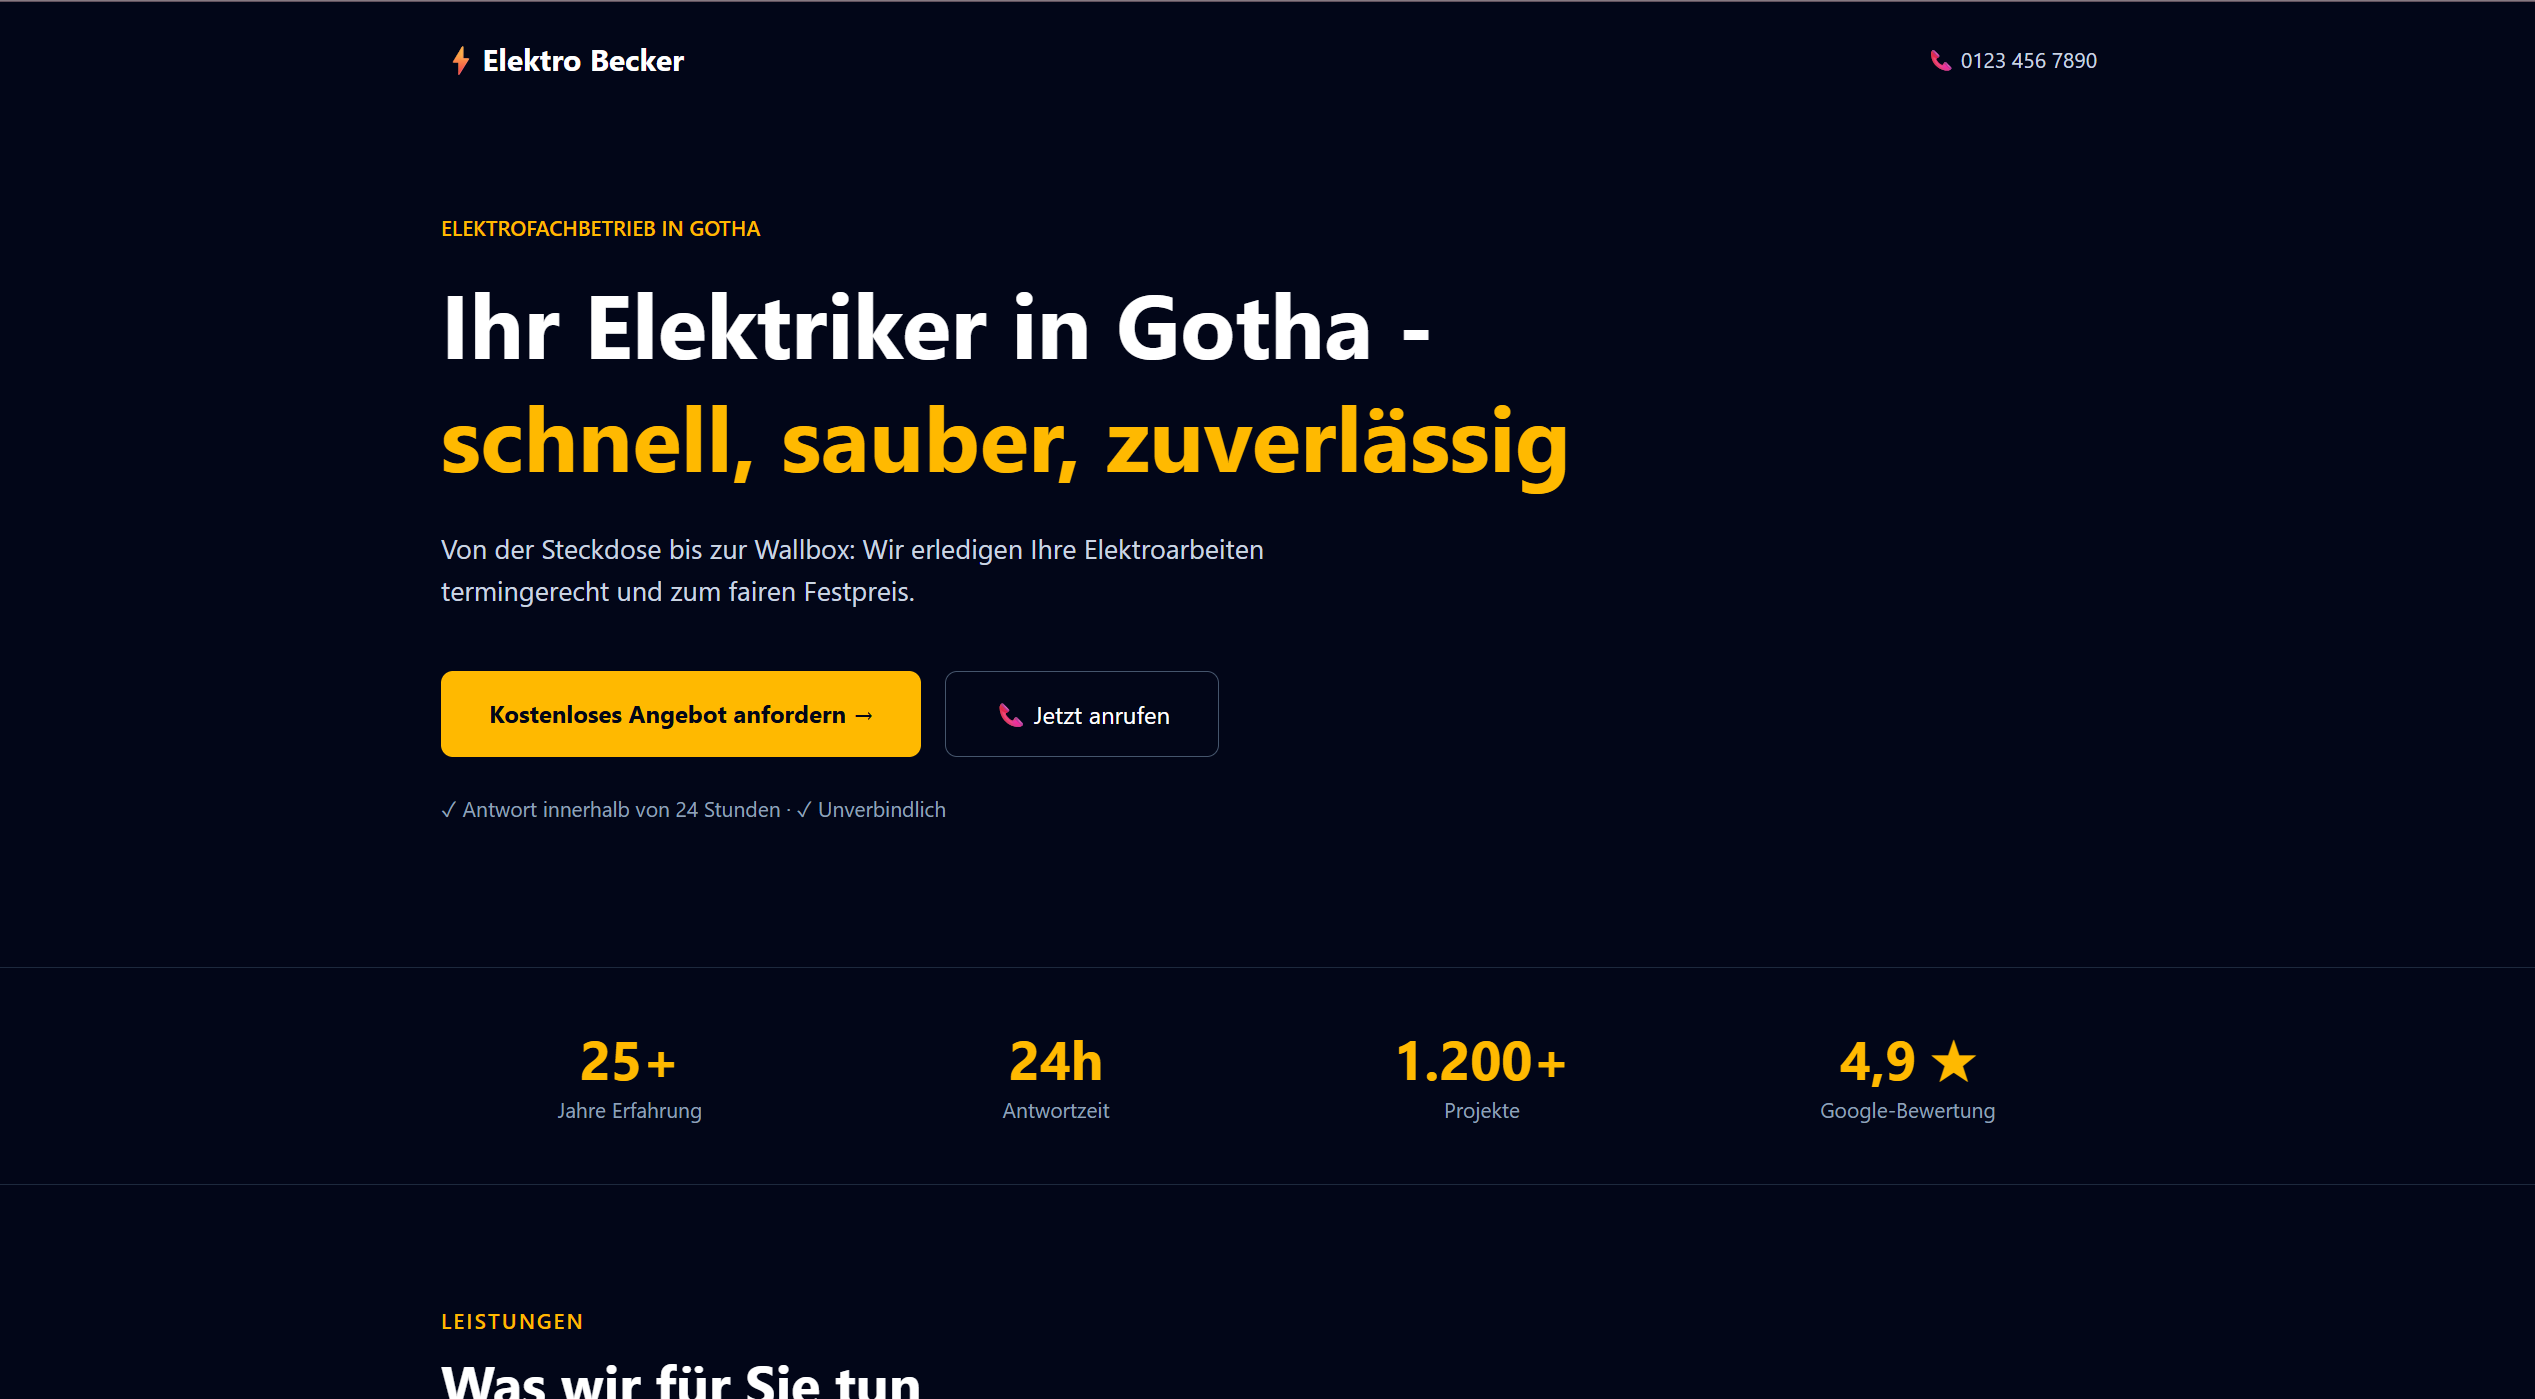
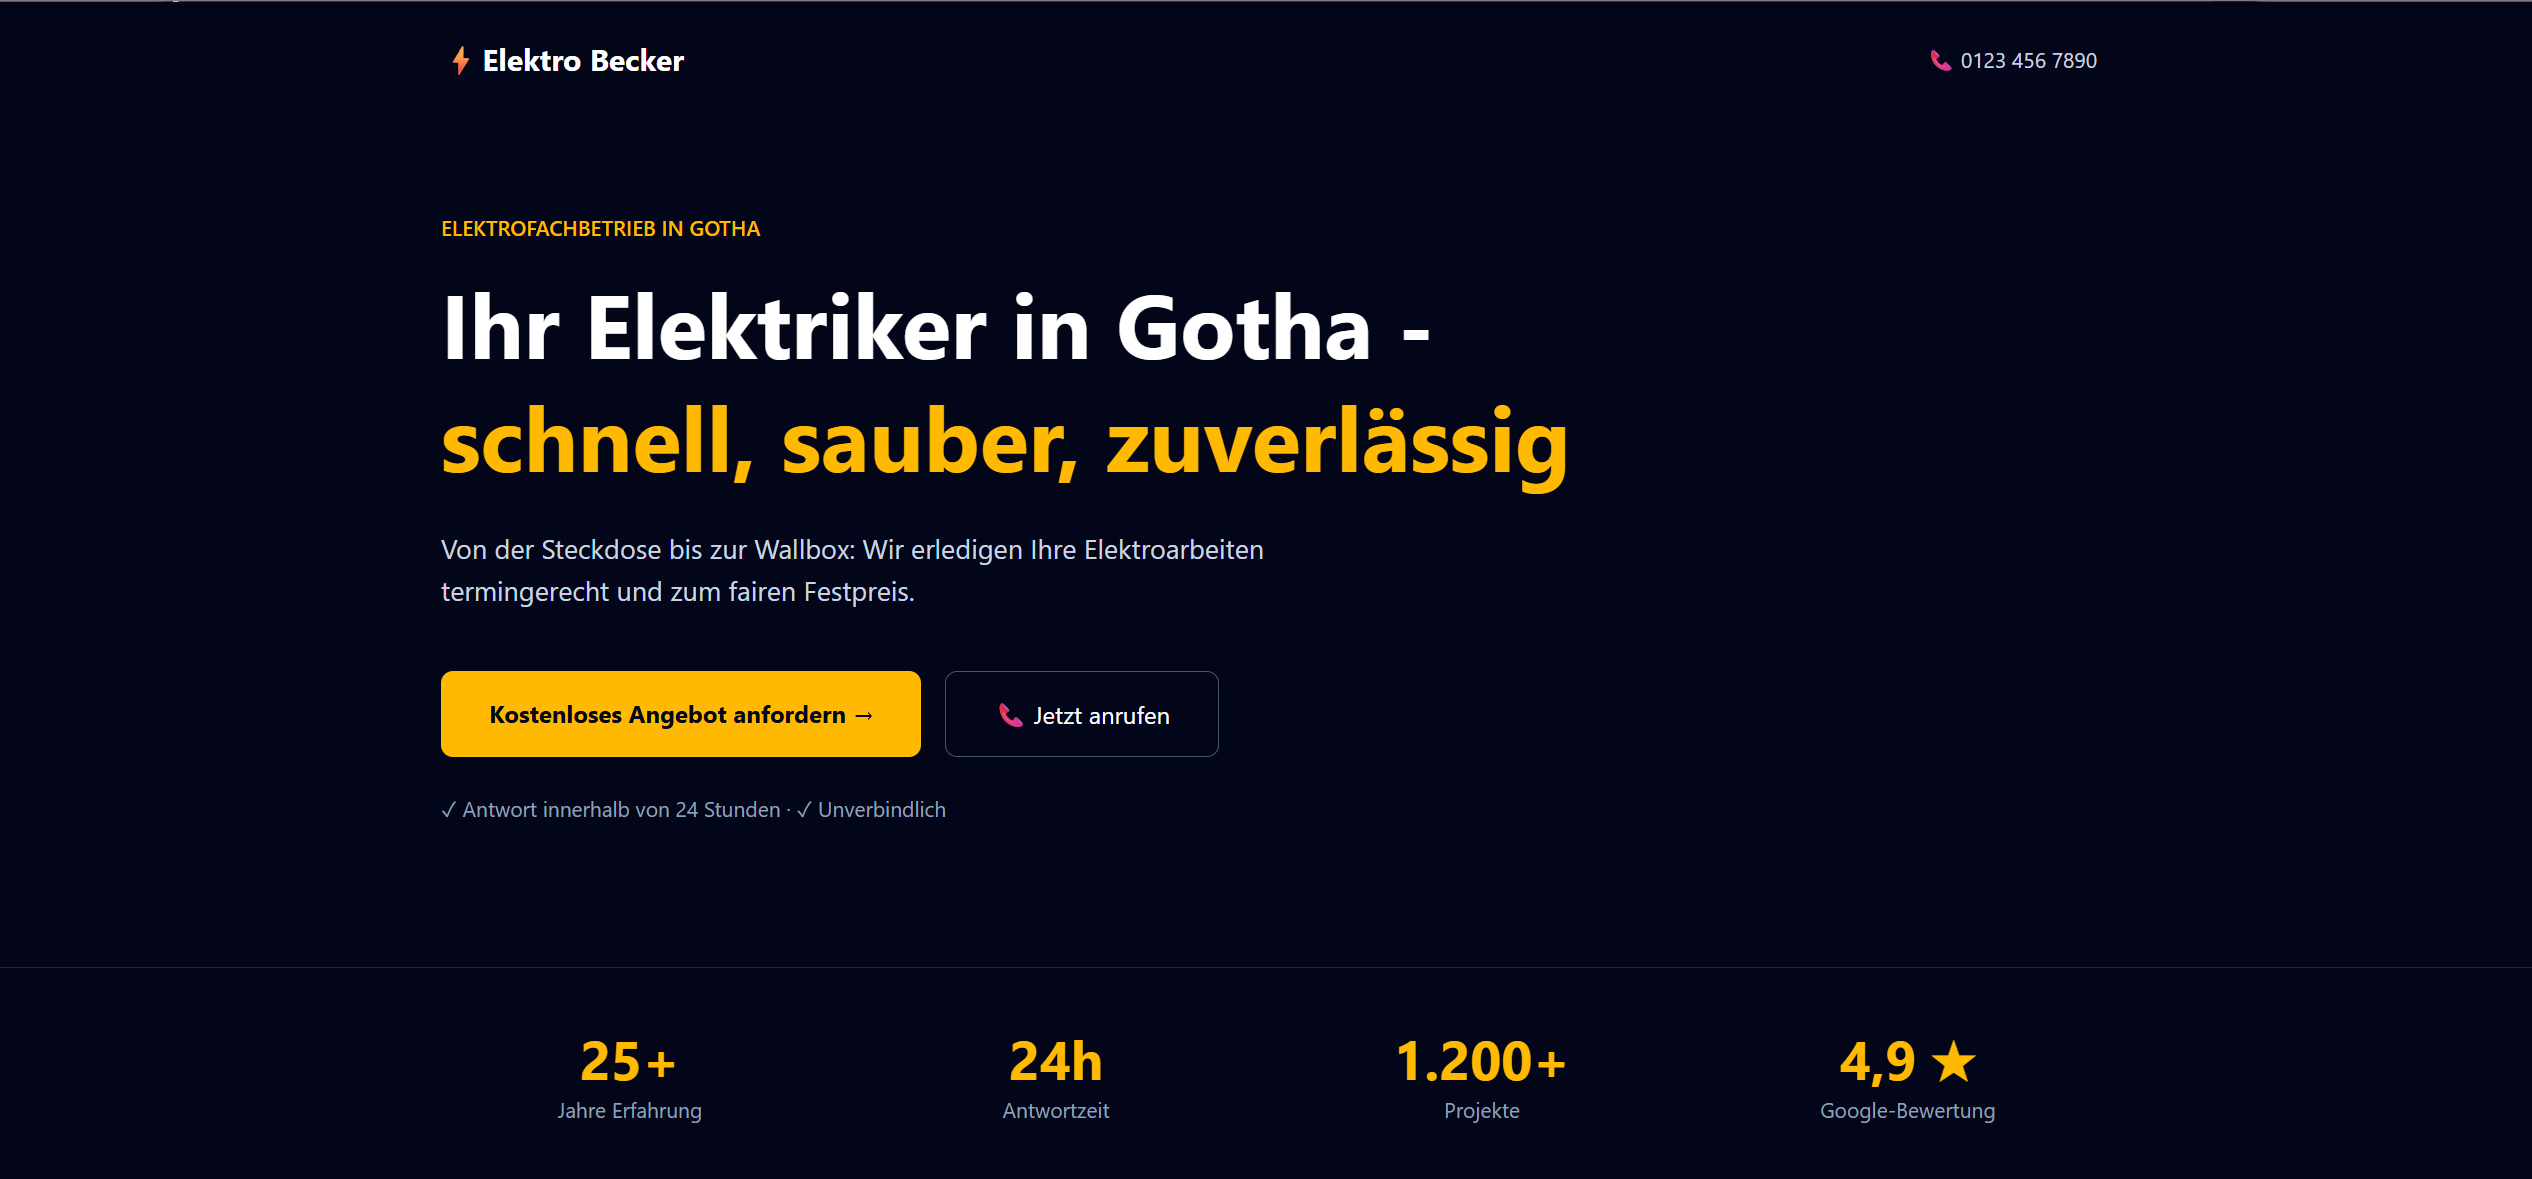
fixed bug with image

diff --git a/src/components/FeaturedProject.jsx b/src/components/FeaturedProject.jsx
@@ -2,14 +2,14 @@ import { featured } from '../data/featured'
 
 function FeaturedProject() {
   return (
-    <section className="mb-20 rounded-2xl border border-purple-600/40 bg-gray-900 overflow-hidden">
+    <section className="group mb-20 rounded-2xl border border-purple-600/40 bg-gray-900 overflow-hidden">
       <div className="grid md:grid-cols-2">
 
         {/* LEFT: screenshot */}
         <img
           src={featured.image}
           alt={`Screenshot of ${featured.title}`}
-          className="w-full h-full object-cover"
+          className="w-full h-full object-cover object-left-top transition duration-500 group-hover:scale-105"
         />
 
         {/* RIGHT: content */}

diff --git a/src/data/featured.js b/src/data/featured.js
@@ -1,5 +1,6 @@
 export const featured = {
   title: 'Elektro Becker',
+  image: '/projects/elektro-becker.jpg',
   subtitle: 'Website für einen Elektrofachbetrieb in Gotha',
   problem: 'Lokale Elektriker verlieren online regelmäßig Kunden: Ihre Websites sind zu langsam, werden bei Google kaum gefunden und Anfragen sind ausschließlich telefonisch während der Bürozeiten möglich.',   
   solution: 'Eine schnelle, mobile-optimierte Landingpage mit einem 24/7-Angebotsformular direkt ins E-Mail-Postfach, lokaler SEO-Optimierung inklusive strukturierter Daten sowie vollständiger deutscher Rechtssicherheit (Impressum und DSGVO-Konformität).',  
